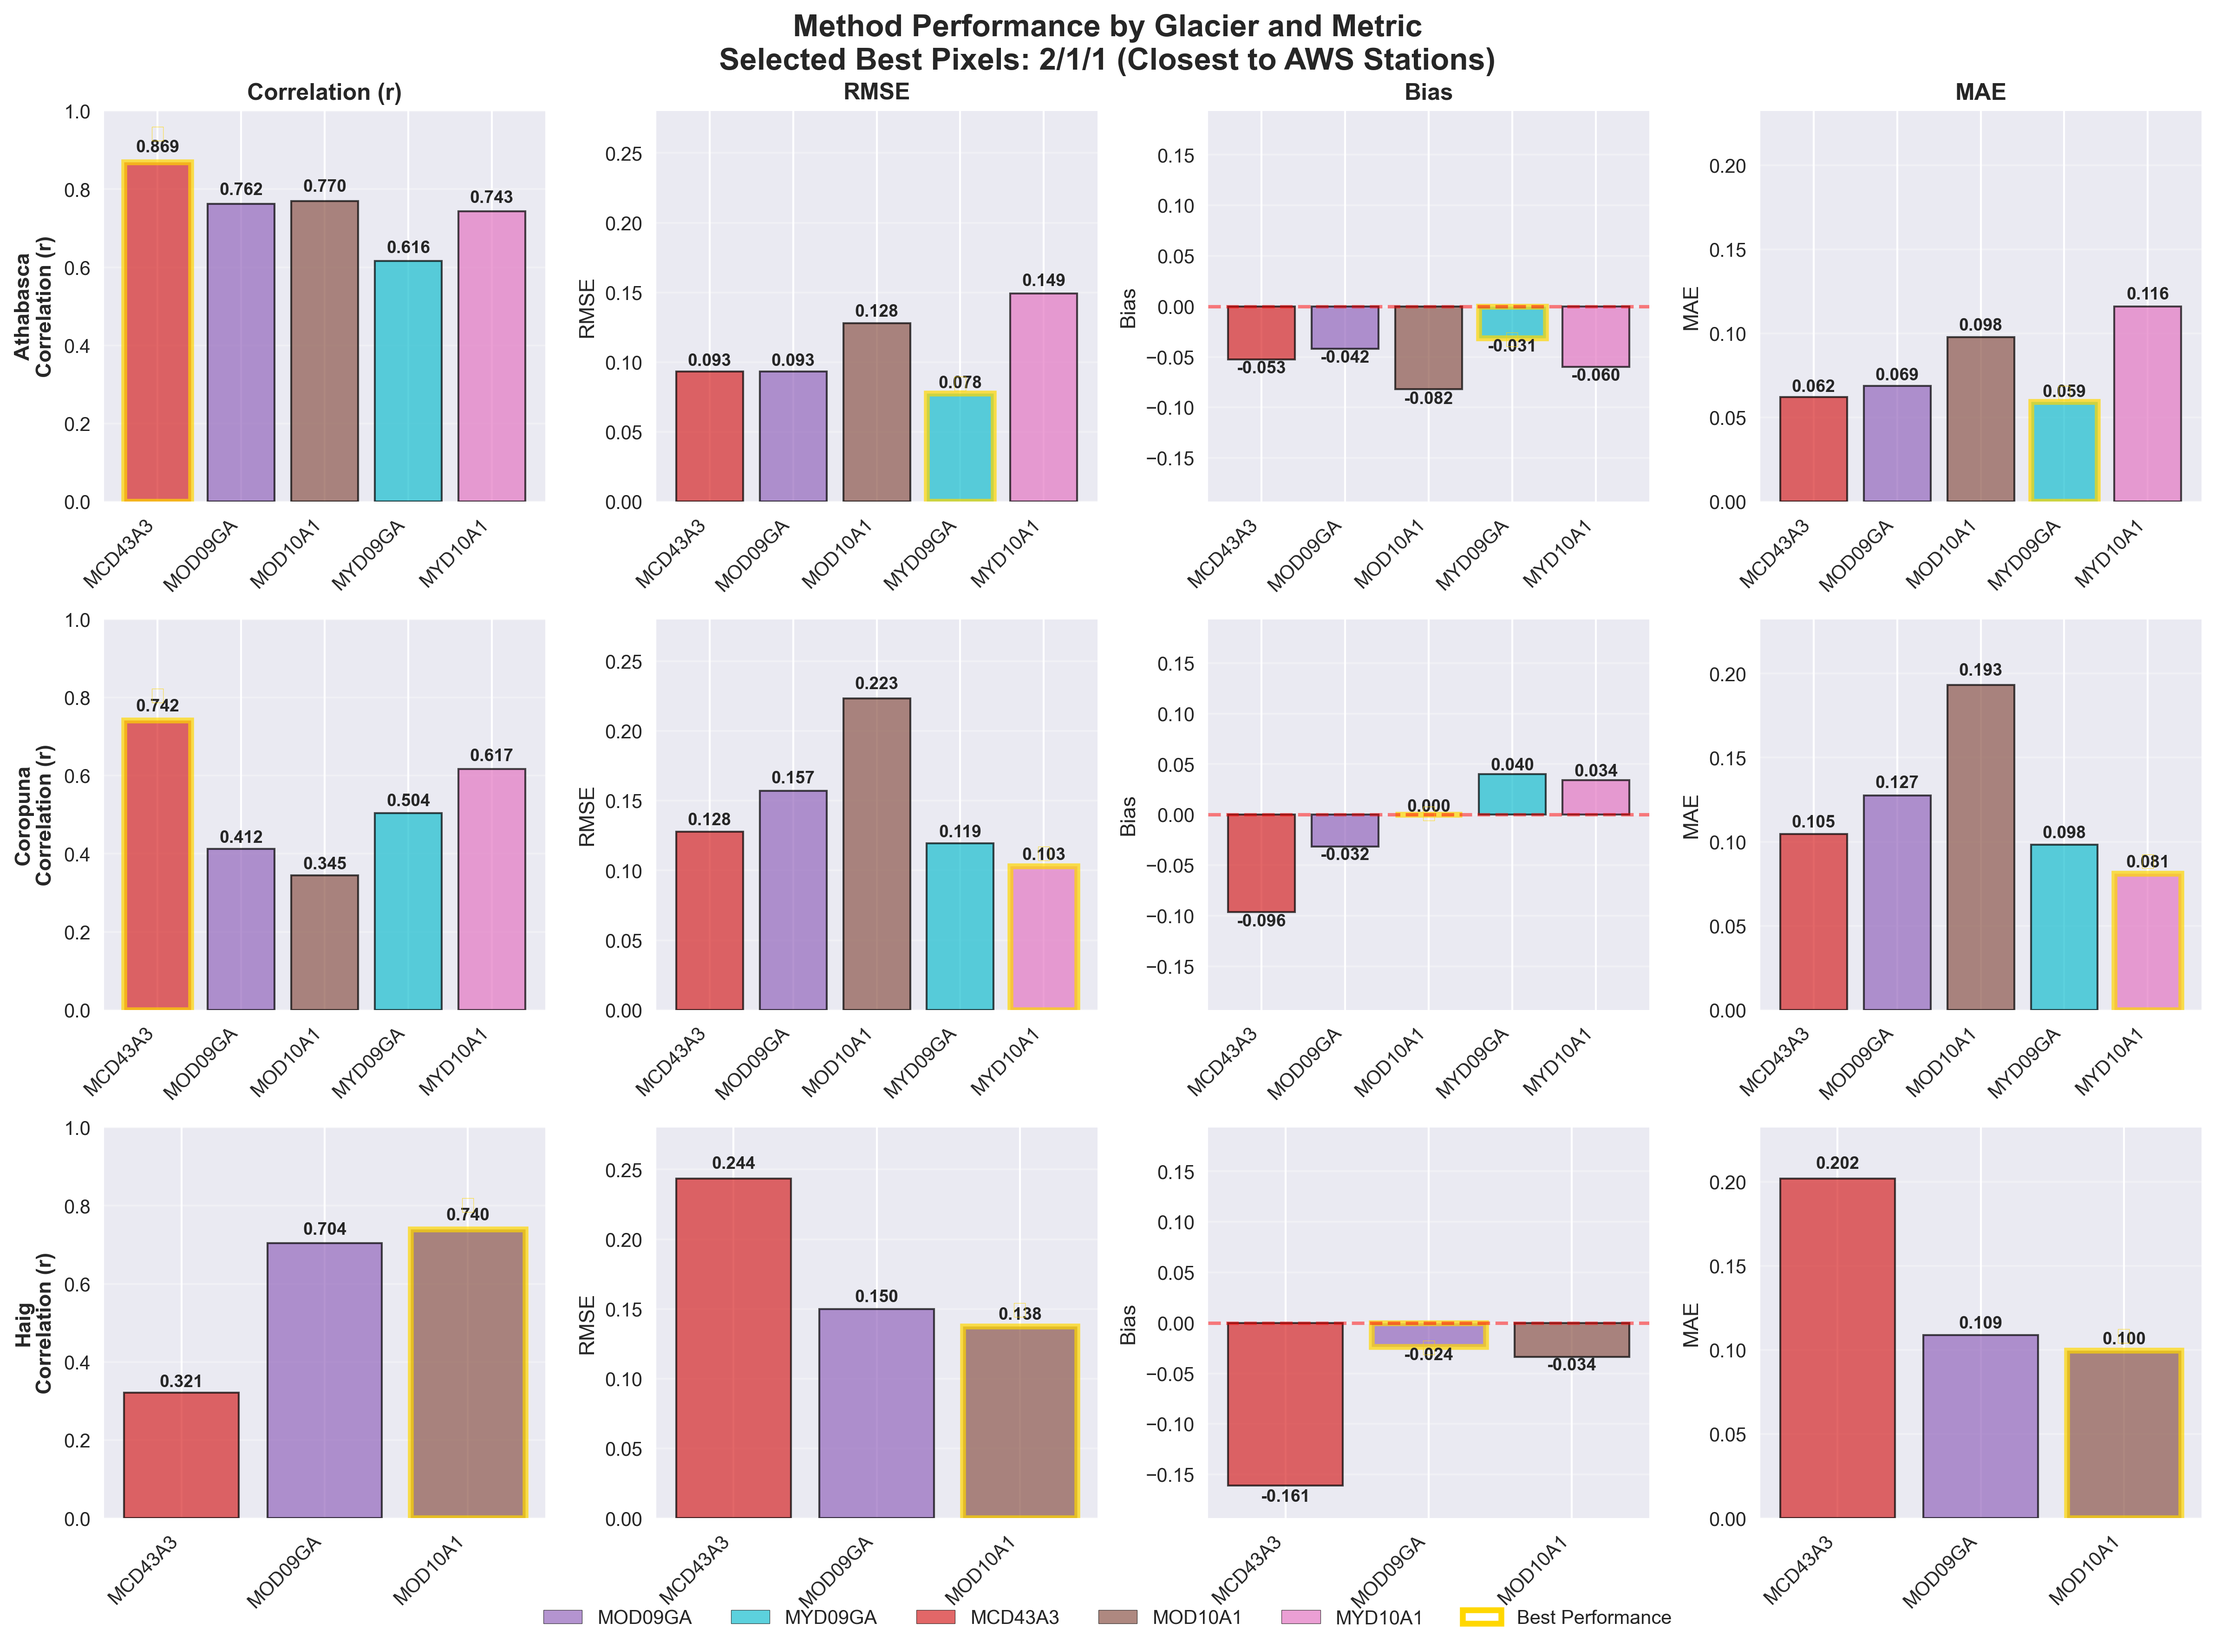
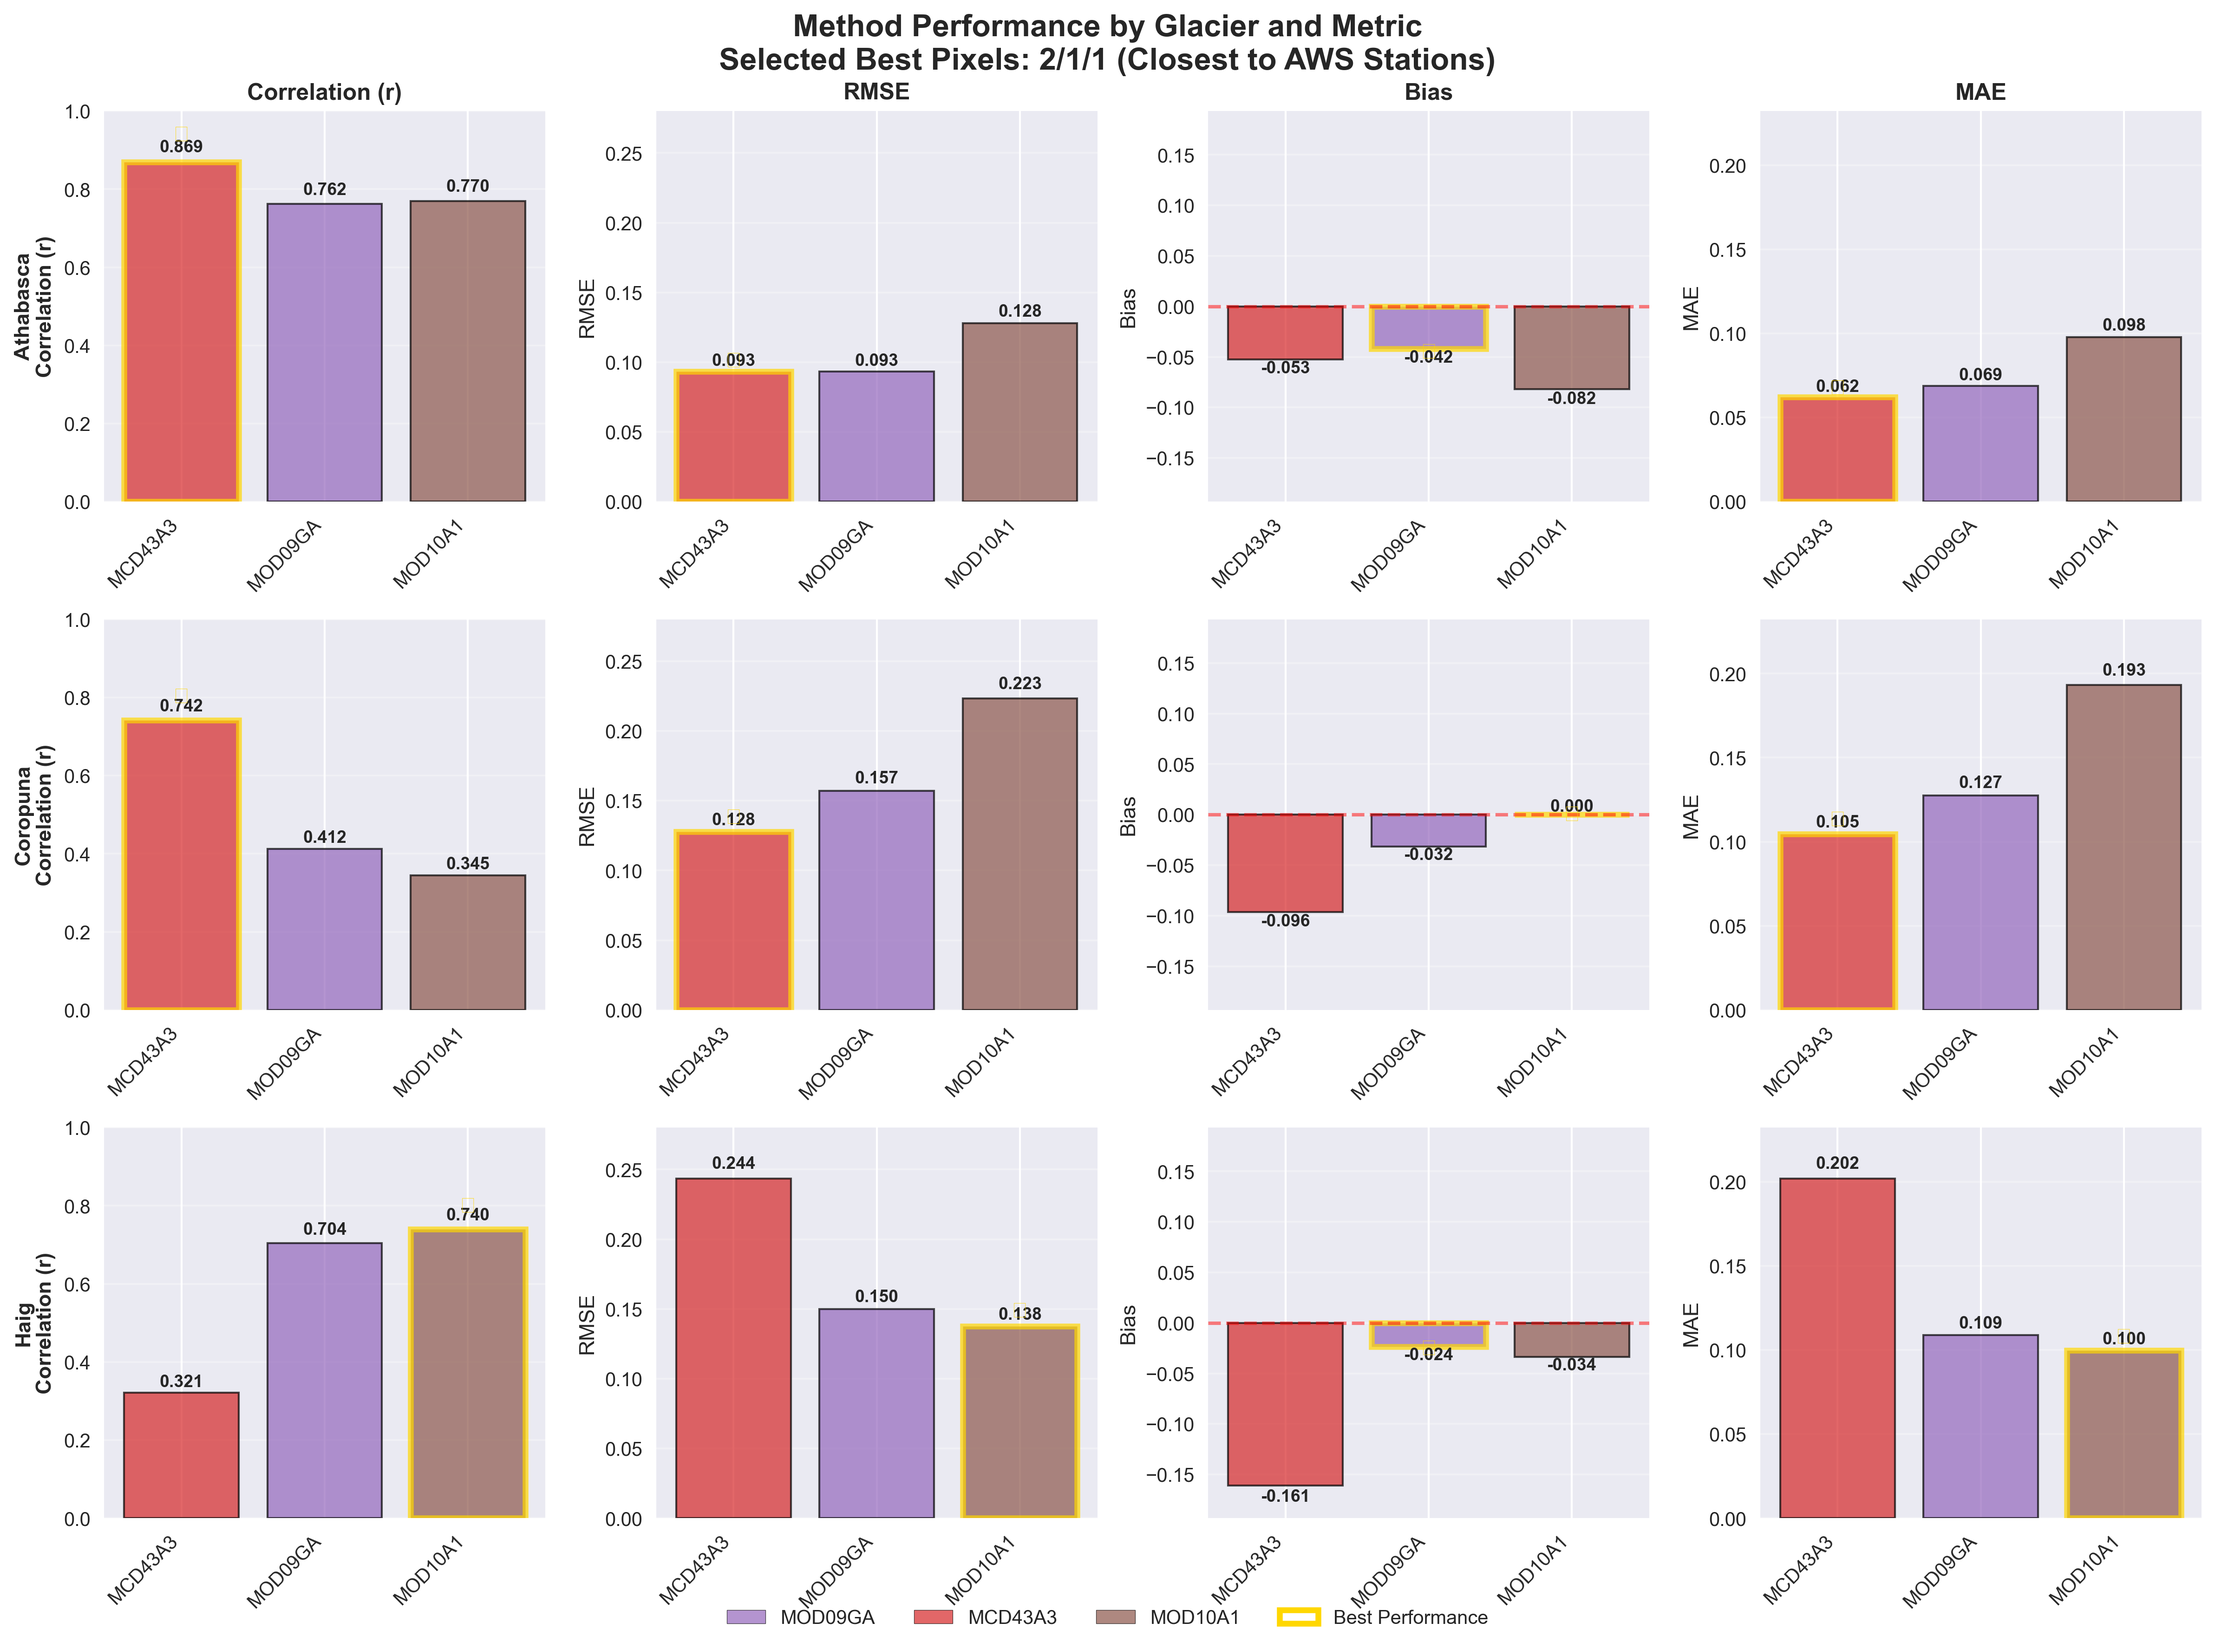
Remove Aqua satellite products from method performance analysis
- Removed MYD09GA and MYD10A1 from analysis
- Focus on Terra products (MOD09GA, MOD10A1) and combined MCD43A3
- Updated method filtering logic to exclude Aqua products during processing
- Simplified legend to show only 3 methods instead of 5
- Generated cleaner 3×4 bar chart matrix for better method comparison

Results: Only Terra MODIS products + MCD43A3 are now analyzed and visualized

diff --git a/Single plots scripts/method_performance_bar_chart_generator.py b/Single plots scripts/method_performance_bar_chart_generator.py
@@ -67,19 +67,15 @@ CONFIG = {
         'mod10a1': '#8c564b',    # Brown (Terra)
         'myd10a1': '#e377c2'     # Pink (Aqua)
     },
-    'methods': ['MOD09GA', 'MYD09GA', 'MCD43A3', 'MOD10A1', 'MYD10A1'],
+    'methods': ['MOD09GA', 'MCD43A3', 'MOD10A1'],
     'method_mapping': {
         # Map different case variations to standard format
         'mcd43a3': 'MCD43A3',
         'MCD43A3': 'MCD43A3',
         'mod09ga': 'MOD09GA', 
         'MOD09GA': 'MOD09GA',
-        'myd09ga': 'MYD09GA',  # Keep Terra/Aqua separate for this visualization
-        'MYD09GA': 'MYD09GA',
         'mod10a1': 'MOD10A1',
-        'MOD10A1': 'MOD10A1',
-        'myd10a1': 'MYD10A1',  # Keep Terra/Aqua separate for this visualization
-        'MYD10A1': 'MYD10A1'
+        'MOD10A1': 'MOD10A1'
     },
     'outlier_threshold': 2.5,
     'quality_filters': {
@@ -336,7 +332,10 @@ class DataProcessor:
         logger.info(f"Merging and processing data for {glacier_id}...")
         
         results = []
-        available_methods = modis_data['method'].unique()
+        
+        # Filter to only include methods we want to analyze
+        target_methods = self.config['methods']
+        available_methods = [m for m in modis_data['method'].unique() if m in target_methods]
         
         for method in available_methods:
             # Filter MODIS data for this method
@@ -561,7 +560,7 @@ class MethodPerformanceVisualizer:
                     ax.set_title(metric_title, fontweight='bold')
         
         # Add legend for method colors (show all possible methods)
-        legend_methods = ['MOD09GA', 'MYD09GA', 'MCD43A3', 'MOD10A1', 'MYD10A1']
+        legend_methods = ['MOD09GA', 'MCD43A3', 'MOD10A1']
         legend_elements = [plt.Rectangle((0,0),1,1, facecolor=self.config['colors'].get(method, 'gray'), 
                                        edgecolor='black', alpha=0.7, label=method) 
                           for method in legend_methods]
@@ -570,7 +569,7 @@ class MethodPerformanceVisualizer:
                                            label='Best Performance'))
         
         fig.legend(legend_elements, [elem.get_label() for elem in legend_elements], 
-                  loc='center', bbox_to_anchor=(0.5, 0.02), ncol=6, fontsize=10)
+                  loc='center', bbox_to_anchor=(0.5, 0.02), ncol=4, fontsize=10)
         
         plt.tight_layout()
         plt.subplots_adjust(bottom=0.08)  # Make room for legend
